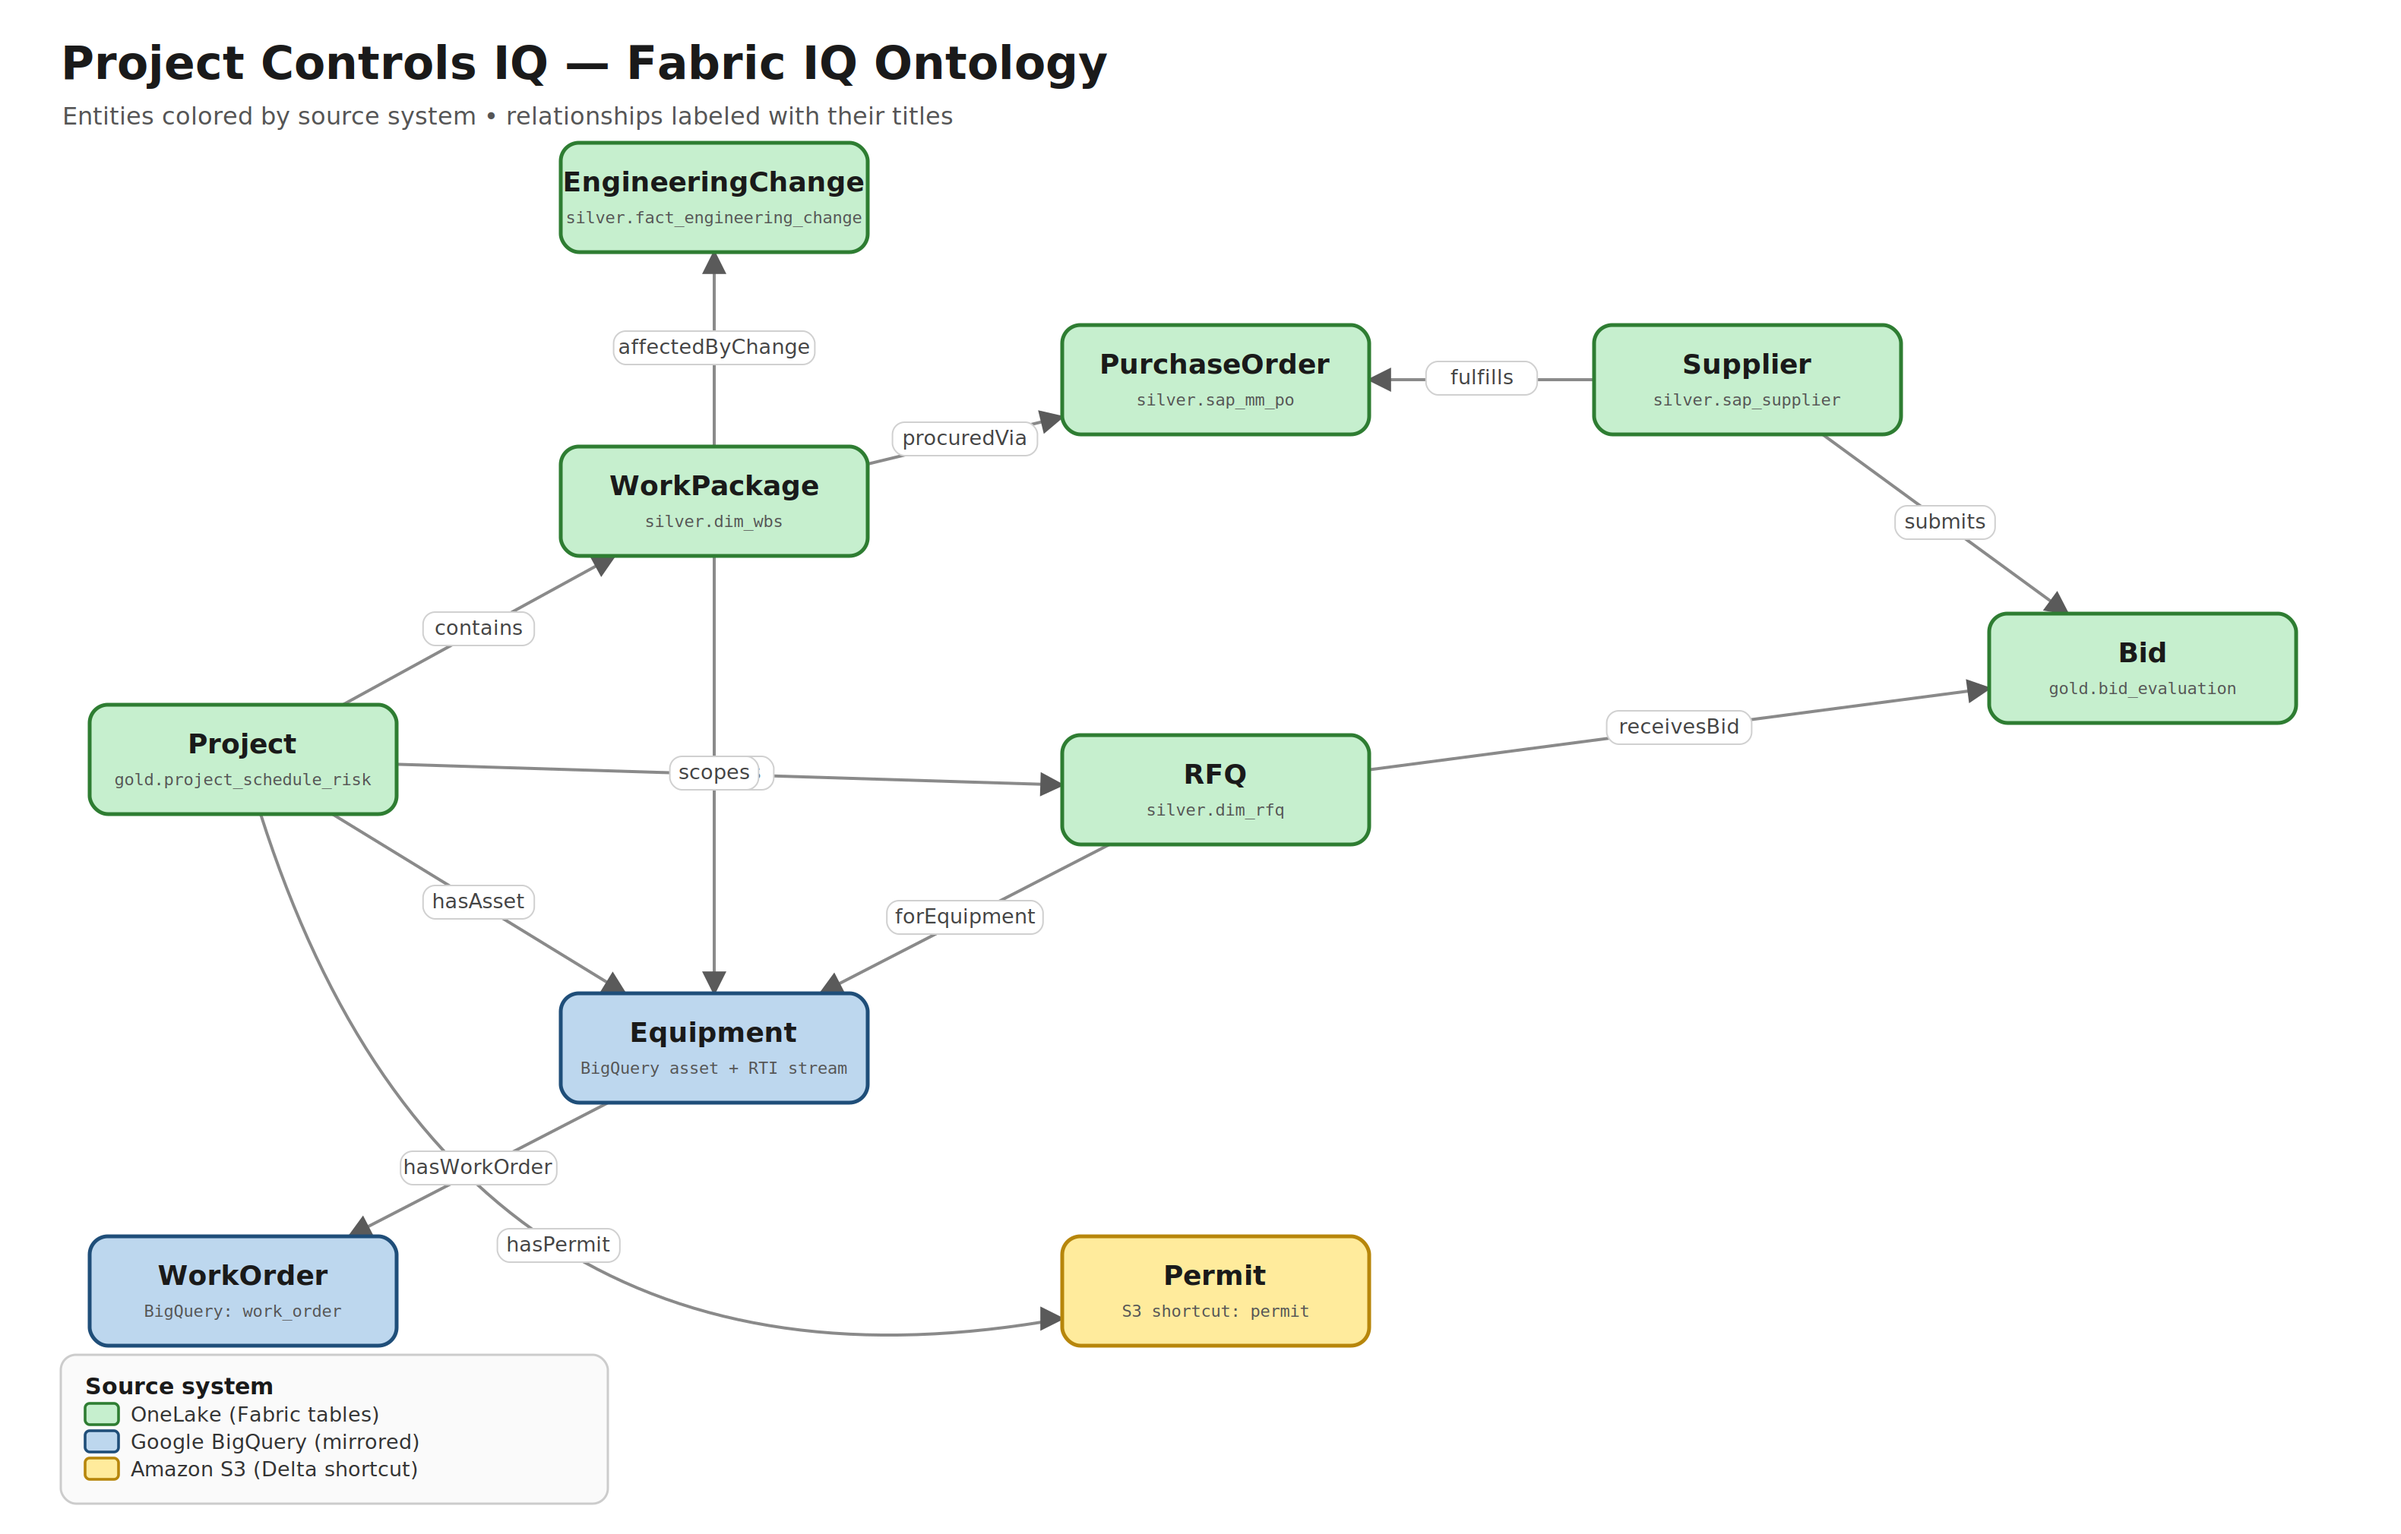
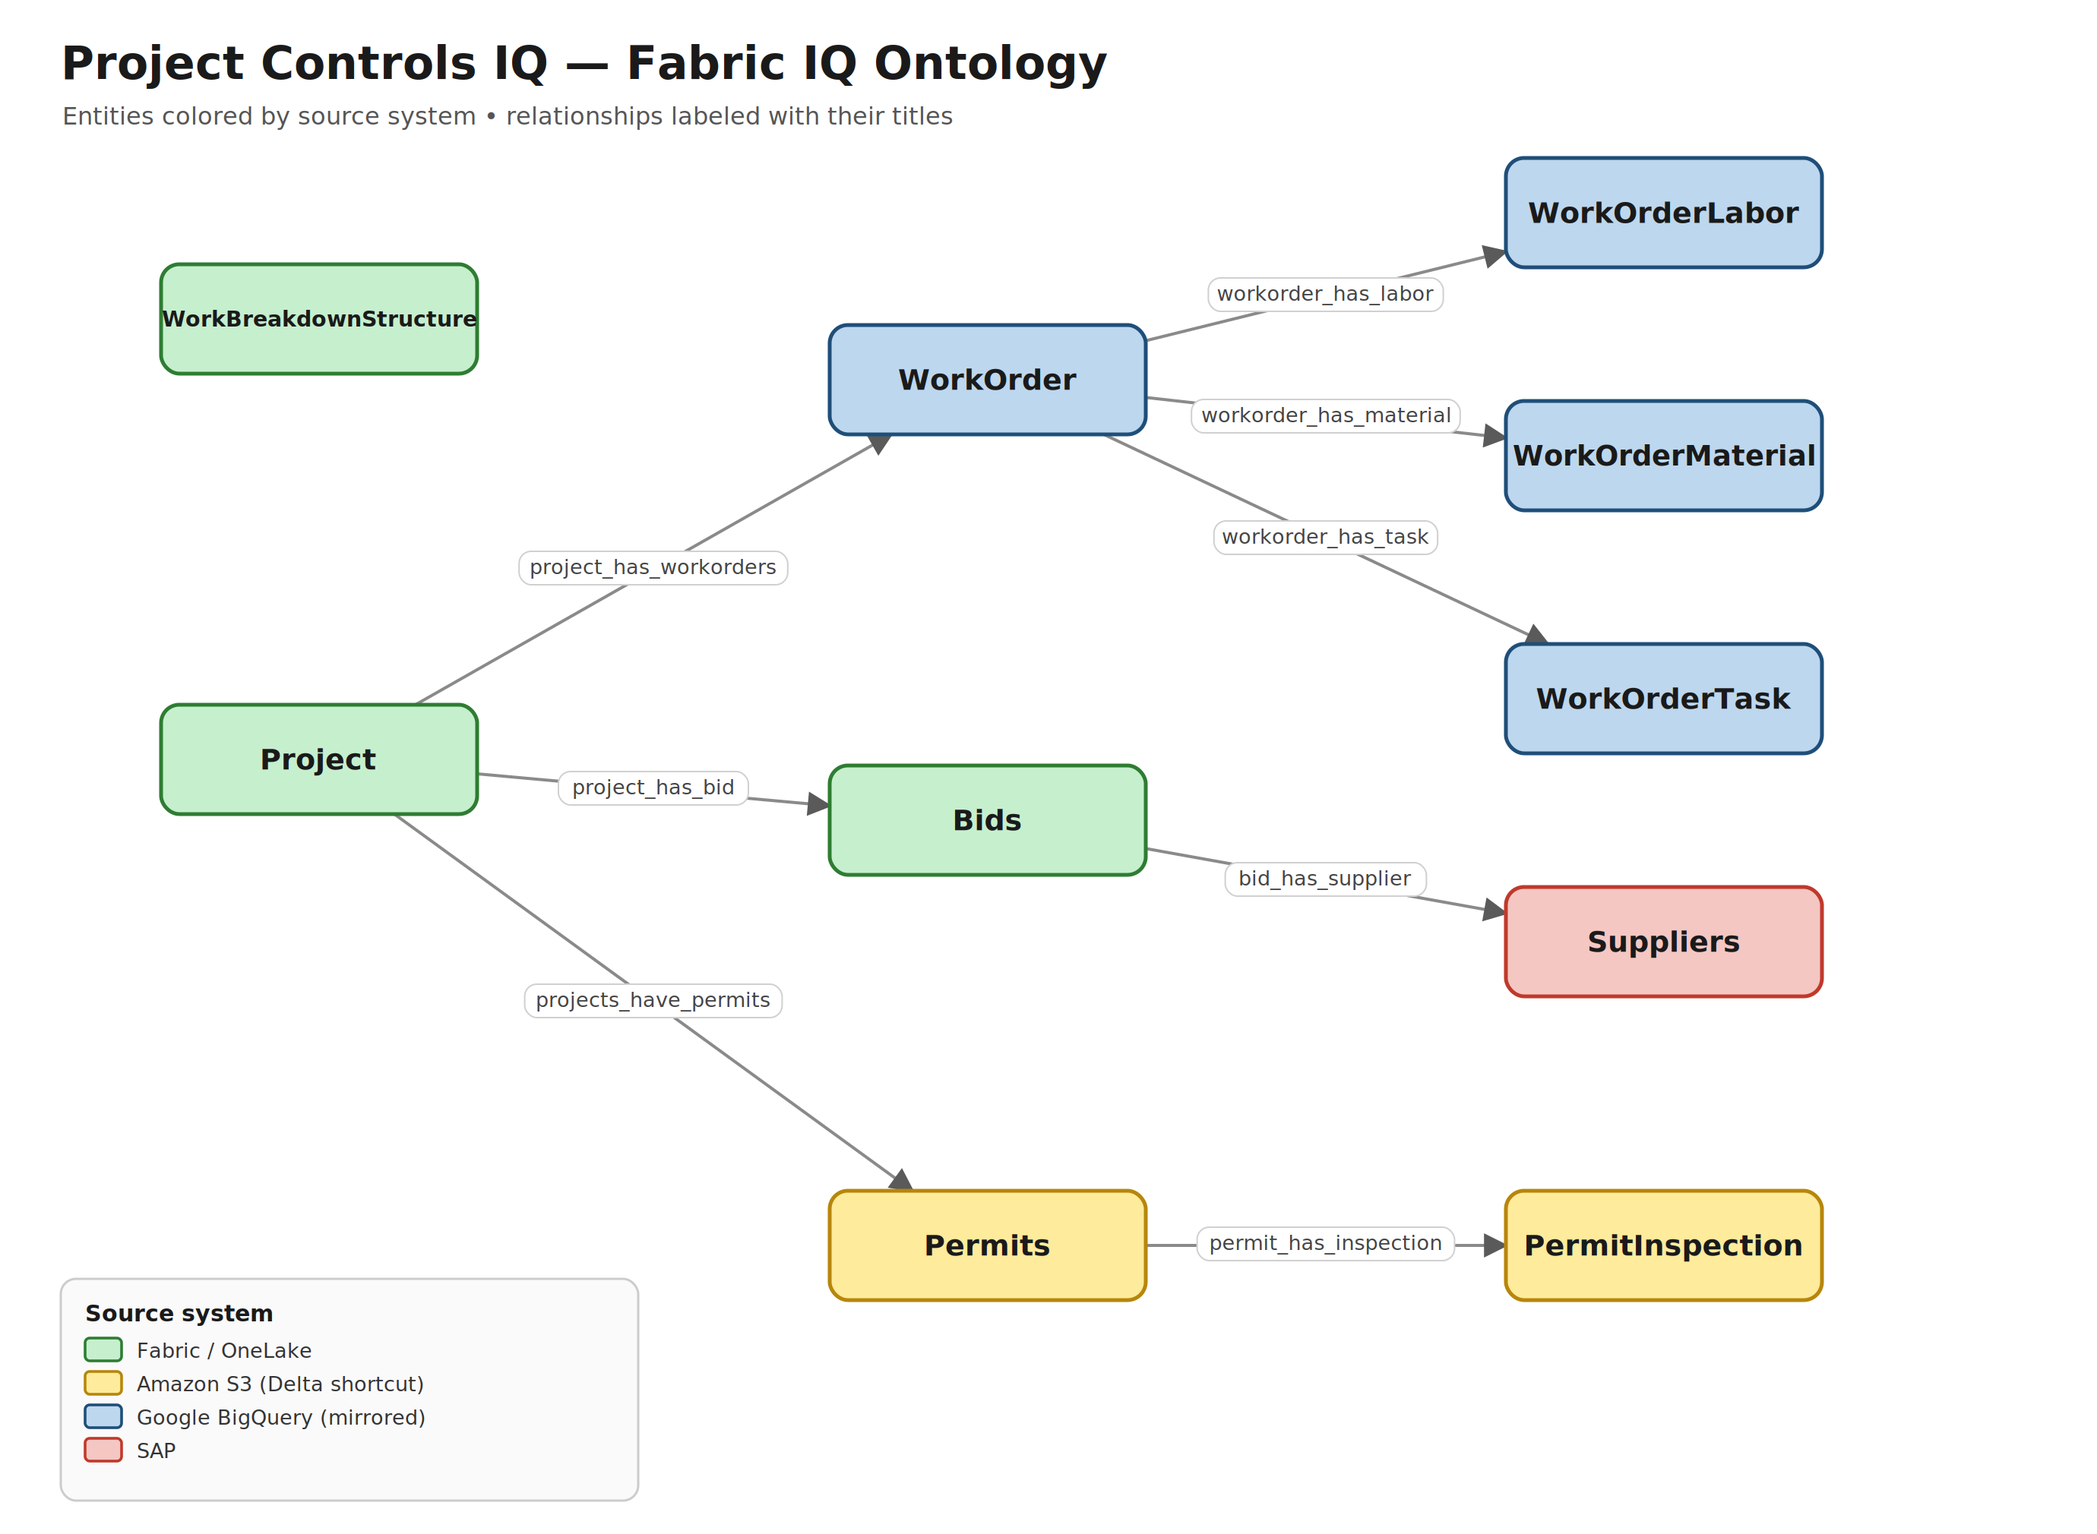
Redraw ontology diagram to match implemented ontology
Update entities/relationships to the as-built ontology (10 entities, 8
relationships) and switch to a 4-color source scheme: green = Fabric/OneLake,
yellow = Amazon S3, blue = Google BigQuery, red = SAP. Suppliers is SAP-sourced;
WorkOrder + its Labor/Material/Task children are BigQuery; Permits/PermitInspection
are S3; Project, WorkBreakdownStructure, Bids are Fabric.

diff --git a/docs/diagrams/generate_ontology_diagram.py b/docs/diagrams/generate_ontology_diagram.py
@@ -1,59 +1,56 @@
 #!/usr/bin/env python3
 """Generate the Project Controls IQ ontology diagram (SVG + PNG).
 
-Entities are color-coded by the source system that backs their data binding:
-  green  = OneLake / Fabric managed tables
-  blue   = Google BigQuery (mirrored database, shortcut)
+Matches the ontology as implemented. Entities are color-coded by the source
+system that backs their data binding:
+  green  = Fabric / OneLake
   yellow = Amazon S3 (Delta shortcut)
+  blue   = Google BigQuery (mirrored database)
+  red    = SAP
 
-Relationships are drawn as labeled directed edges. See
-design/ontology_design.md for the underlying entity/relationship spec.
+Relationships are drawn as labeled directed edges.
 """
-import math
 import os
 
-# ---- palette -----------------------------------------------------------------
+# ---- palette: key -> (fill, stroke, legend label) ----------------------------
 COLORS = {
-    "onelake":  ("#C6EFCE", "#2E7D32", "OneLake (Fabric tables)"),
-    "bigquery": ("#BDD7EE", "#1F4E79", "Google BigQuery (mirrored)"),
+    "fabric":   ("#C6EFCE", "#2E7D32", "Fabric / OneLake"),
     "s3":       ("#FFEB9C", "#B7860B", "Amazon S3 (Delta shortcut)"),
+    "bigquery": ("#BDD7EE", "#1F4E79", "Google BigQuery (mirrored)"),
+    "sap":      ("#F4C7C3", "#C0392B", "SAP"),
 }
 TEXT_DARK = "#1a1a1a"
 
-# ---- nodes: name -> (cx, cy, source, subtitle) -------------------------------
-BOX_W, BOX_H = 202, 72
+BOX_W, BOX_H = 208, 72
 HW, HH = BOX_W / 2, BOX_H / 2
 
+# ---- nodes: name -> (cx, cy, source) -----------------------------------------
 NODES = {
-    "Project":            (160, 500, "onelake",  "gold.project_schedule_risk"),
-    "WorkPackage":        (470, 330, "onelake",  "silver.dim_wbs"),
-    "EngineeringChange":  (470, 130, "onelake",  "silver.fact_engineering_change"),
-    "Equipment":          (470, 690, "bigquery", "BigQuery asset + RTI stream"),
-    "WorkOrder":          (160, 850, "bigquery", "BigQuery: work_order"),
-    "PurchaseOrder":      (800, 250, "onelake",  "silver.sap_mm_po"),
-    "RFQ":                (800, 520, "onelake",  "silver.dim_rfq"),
-    "Permit":             (800, 850, "s3",       "S3 shortcut: permit"),
-    "Supplier":           (1150, 250, "onelake", "silver.sap_supplier"),
-    "Bid":                (1410, 440, "onelake", "gold.bid_evaluation"),
+    "Project":                (210, 500, "fabric"),
+    "WorkBreakdownStructure": (210, 210, "fabric"),
+    "WorkOrder":              (650, 250, "bigquery"),
+    "Bids":                   (650, 540, "fabric"),
+    "Permits":                (650, 820, "s3"),
+    "WorkOrderLabor":         (1095, 140, "bigquery"),
+    "WorkOrderMaterial":      (1095, 300, "bigquery"),
+    "WorkOrderTask":          (1095, 460, "bigquery"),
+    "Suppliers":              (1095, 620, "sap"),
+    "PermitInspection":       (1095, 820, "s3"),
 }
 
-# ---- edges: (source, target, label, curve_ctrl or None) ----------------------
+# ---- edges: (source, target, label) ------------------------------------------
 EDGES = [
-    ("Project", "WorkPackage", "contains", None),
-    ("Project", "Equipment", "hasAsset", None),
-    ("Project", "RFQ", "issues", None),
-    ("Project", "Permit", "hasPermit", (300, 940)),
-    ("WorkPackage", "EngineeringChange", "affectedByChange", None),
-    ("WorkPackage", "PurchaseOrder", "procuredVia", None),
-    ("WorkPackage", "Equipment", "scopes", None),
-    ("Supplier", "PurchaseOrder", "fulfills", None),
-    ("Supplier", "Bid", "submits", None),
-    ("RFQ", "Equipment", "forEquipment", None),
-    ("RFQ", "Bid", "receivesBid", None),
-    ("Equipment", "WorkOrder", "hasWorkOrder", None),
+    ("WorkOrder", "WorkOrderLabor", "workorder_has_labor"),
+    ("WorkOrder", "WorkOrderMaterial", "workorder_has_material"),
+    ("WorkOrder", "WorkOrderTask", "workorder_has_task"),
+    ("Project", "WorkOrder", "project_has_workorders"),
+    ("Project", "Bids", "project_has_bid"),
+    ("Project", "Permits", "projects_have_permits"),
+    ("Bids", "Suppliers", "bid_has_supplier"),
+    ("Permits", "PermitInspection", "permit_has_inspection"),
 ]
 
-W, H = 1580, 1010
+W, H = 1380, 1010
 
 
 def border_point(cx, cy, tx, ty):
@@ -61,8 +58,8 @@ def border_point(cx, cy, tx, ty):
     dx, dy = tx - cx, ty - cy
     if dx == 0 and dy == 0:
         return cx, cy
-    sx = HW / abs(dx) if dx else math.inf
-    sy = HH / abs(dy) if dy else math.inf
+    sx = HW / abs(dx) if dx else 1e9
+    sy = HH / abs(dy) if dy else 1e9
     s = min(sx, sy)
     return cx + dx * s, cy + dy * s
 
@@ -98,26 +95,16 @@ svg.append(
 
 # ---- edges (draw before nodes so nodes sit on top) ---------------------------
 edge_svg, label_svg = [], []
-for s, t, label, ctrl in EDGES:
-    sx, sy, *_ = NODES[s]
-    tx, ty, *_ = NODES[t]
-    if ctrl is None:
-        p0 = border_point(sx, sy, tx, ty)
-        p1 = border_point(tx, ty, sx, sy)
-        path = f'M{p0[0]:.1f},{p0[1]:.1f} L{p1[0]:.1f},{p1[1]:.1f}'
-        mx, my = (p0[0] + p1[0]) / 2, (p0[1] + p1[1]) / 2
-    else:
-        cxp, cyp = ctrl
-        p0 = border_point(sx, sy, cxp, cyp)
-        p1 = border_point(tx, ty, cxp, cyp)
-        path = f'M{p0[0]:.1f},{p0[1]:.1f} Q{cxp},{cyp} {p1[0]:.1f},{p1[1]:.1f}'
-        mx = 0.25 * p0[0] + 0.5 * cxp + 0.25 * p1[0]
-        my = 0.25 * p0[1] + 0.5 * cyp + 0.25 * p1[1]
+for s, t, label in EDGES:
+    sx, sy, _ = NODES[s]
+    tx, ty, _ = NODES[t]
+    p0 = border_point(sx, sy, tx, ty)
+    p1 = border_point(tx, ty, sx, sy)
     edge_svg.append(
-        f'<path d="{path}" fill="none" stroke="#8a8a8a" stroke-width="2" '
-        'marker-end="url(#arrow)"/>'
+        f'<path d="M{p0[0]:.1f},{p0[1]:.1f} L{p1[0]:.1f},{p1[1]:.1f}" fill="none" '
+        'stroke="#8a8a8a" stroke-width="2" marker-end="url(#arrow)"/>'
     )
-    # label with white pill background
+    mx, my = (p0[0] + p1[0]) / 2, (p0[1] + p1[1]) / 2
     fw = len(label) * 7.4 + 14
     label_svg.append(
         f'<g>'
@@ -130,41 +117,39 @@ svg.extend(edge_svg)
 svg.extend(label_svg)
 
 # ---- nodes -------------------------------------------------------------------
-for name, (cx, cy, src, sub) in NODES.items():
+for name, (cx, cy, src) in NODES.items():
     fill, stroke, _ = COLORS[src]
     x, y = cx - HW, cy - HH
     svg.append(
         f'<rect x="{x}" y="{y}" width="{BOX_W}" height="{BOX_H}" rx="12" '
         f'fill="{fill}" stroke="{stroke}" stroke-width="2.5" filter="url(#shadow)"/>'
     )
+    # dynamic font size so long names (e.g. WorkBreakdownStructure) fit
+    fs = min(19.0, (BOX_W - 20) / (0.60 * max(len(name), 1)))
     svg.append(
-        f'<text x="{cx}" y="{cy - 4}" font-size="18" font-weight="700" '
-        f'text-anchor="middle" fill="{TEXT_DARK}">{esc(name)}</text>'
-    )
-    svg.append(
-        f'<text x="{cx}" y="{cy + 17}" font-size="11" text-anchor="middle" '
-        f'fill="#555" font-family="Consolas, monospace">{esc(sub)}</text>'
+        f'<text x="{cx}" y="{cy + fs*0.35:.1f}" font-size="{fs:.1f}" '
+        f'font-weight="700" text-anchor="middle" fill="{TEXT_DARK}">{esc(name)}</text>'
     )
 
-# ---- legend ------------------------------------------------------------------
-lx, ly = 40, H - 118
+# ---- legend (4 sources) ------------------------------------------------------
+lx, ly = 40, H - 168
 svg.append(
-    f'<rect x="{lx}" y="{ly}" width="360" height="98" rx="10" fill="#fafafa" '
+    f'<rect x="{lx}" y="{ly}" width="380" height="146" rx="10" fill="#fafafa" '
     'stroke="#cccccc" stroke-width="1.5"/>'
 )
 svg.append(
-    f'<text x="{lx + 16}" y="{ly + 26}" font-size="15" font-weight="700" '
+    f'<text x="{lx + 16}" y="{ly + 28}" font-size="15" font-weight="700" '
     f'fill="{TEXT_DARK}">Source system</text>'
 )
-for i, key in enumerate(["onelake", "bigquery", "s3"]):
+for i, key in enumerate(["fabric", "s3", "bigquery", "sap"]):
     fill, stroke, desc = COLORS[key]
-    yy = ly + 44 + i * 18
+    yy = ly + 52 + i * 22
     svg.append(
-        f'<rect x="{lx + 16}" y="{yy - 12}" width="22" height="14" rx="3" '
+        f'<rect x="{lx + 16}" y="{yy - 13}" width="24" height="15" rx="3" '
         f'fill="{fill}" stroke="{stroke}" stroke-width="1.8"/>'
     )
     svg.append(
-        f'<text x="{lx + 46}" y="{yy}" font-size="13.5" fill="#333">{esc(desc)}</text>'
+        f'<text x="{lx + 50}" y="{yy}" font-size="13.5" fill="#333">{esc(desc)}</text>'
     )
 
 svg.append("</svg>")
